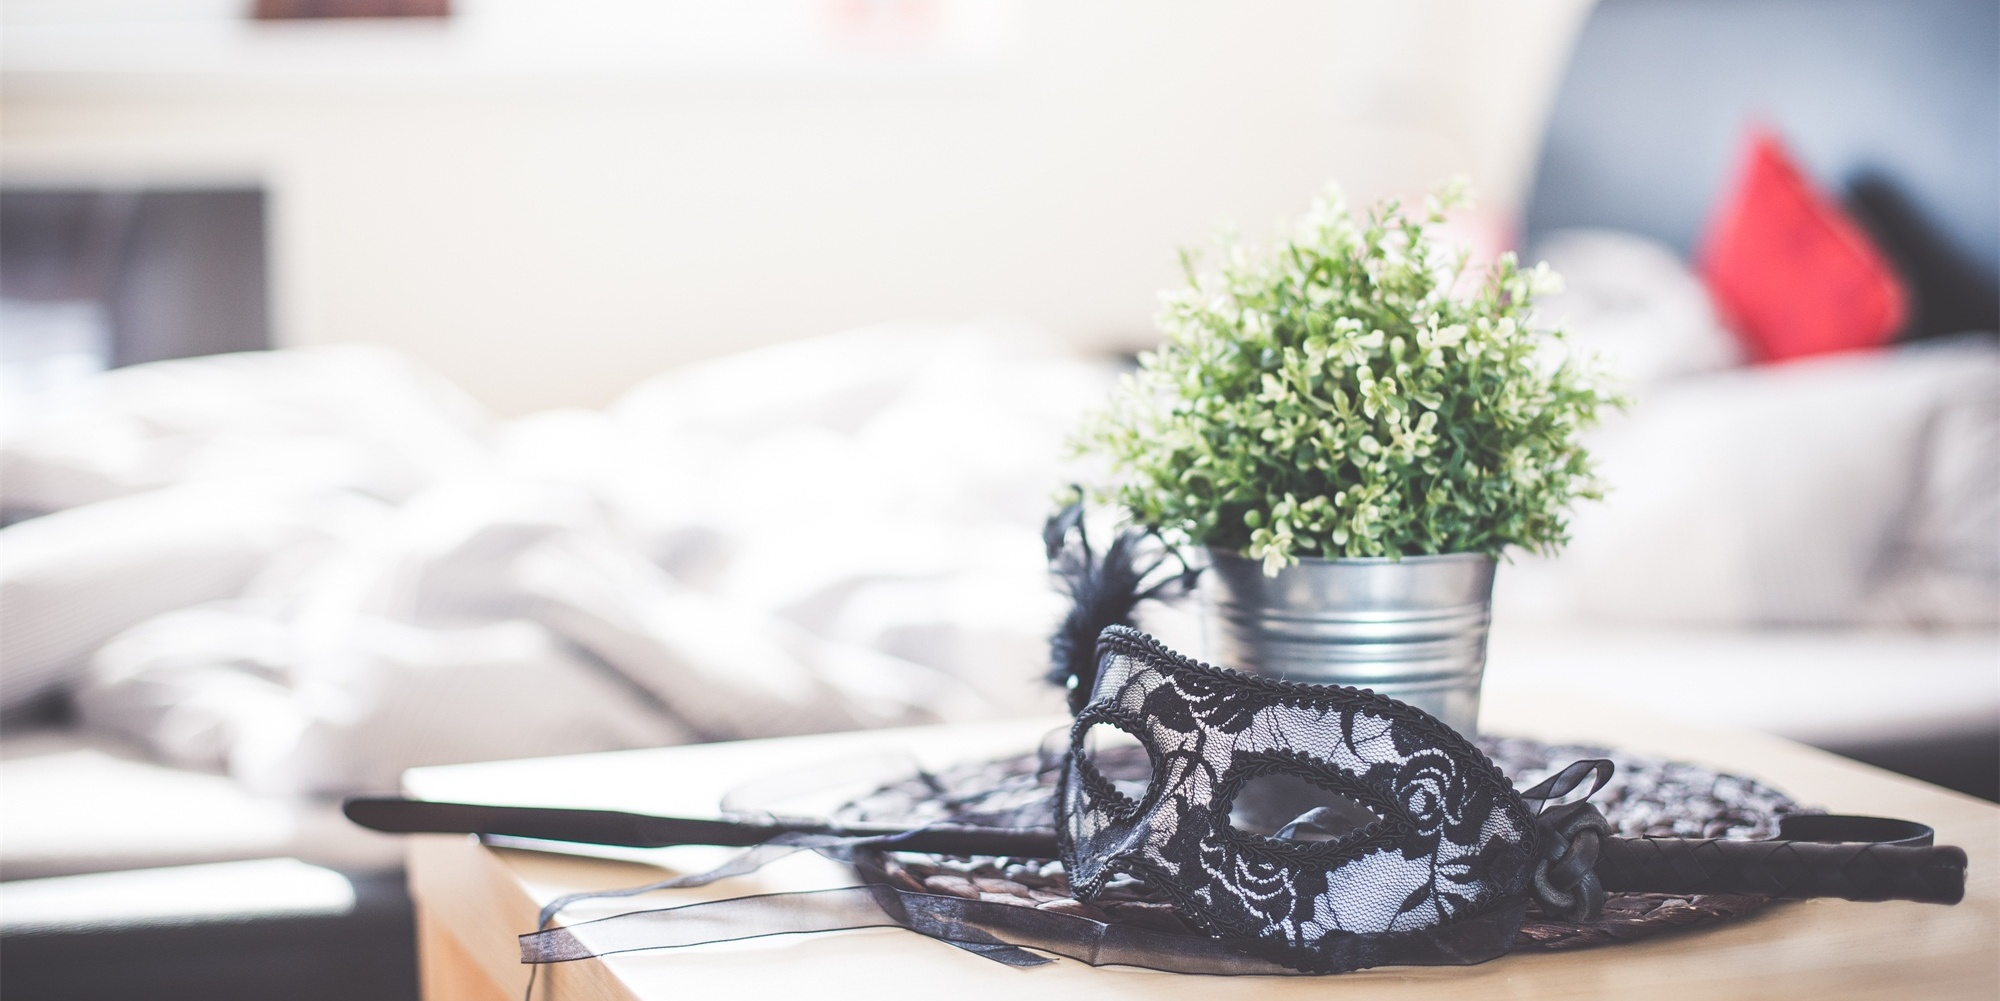
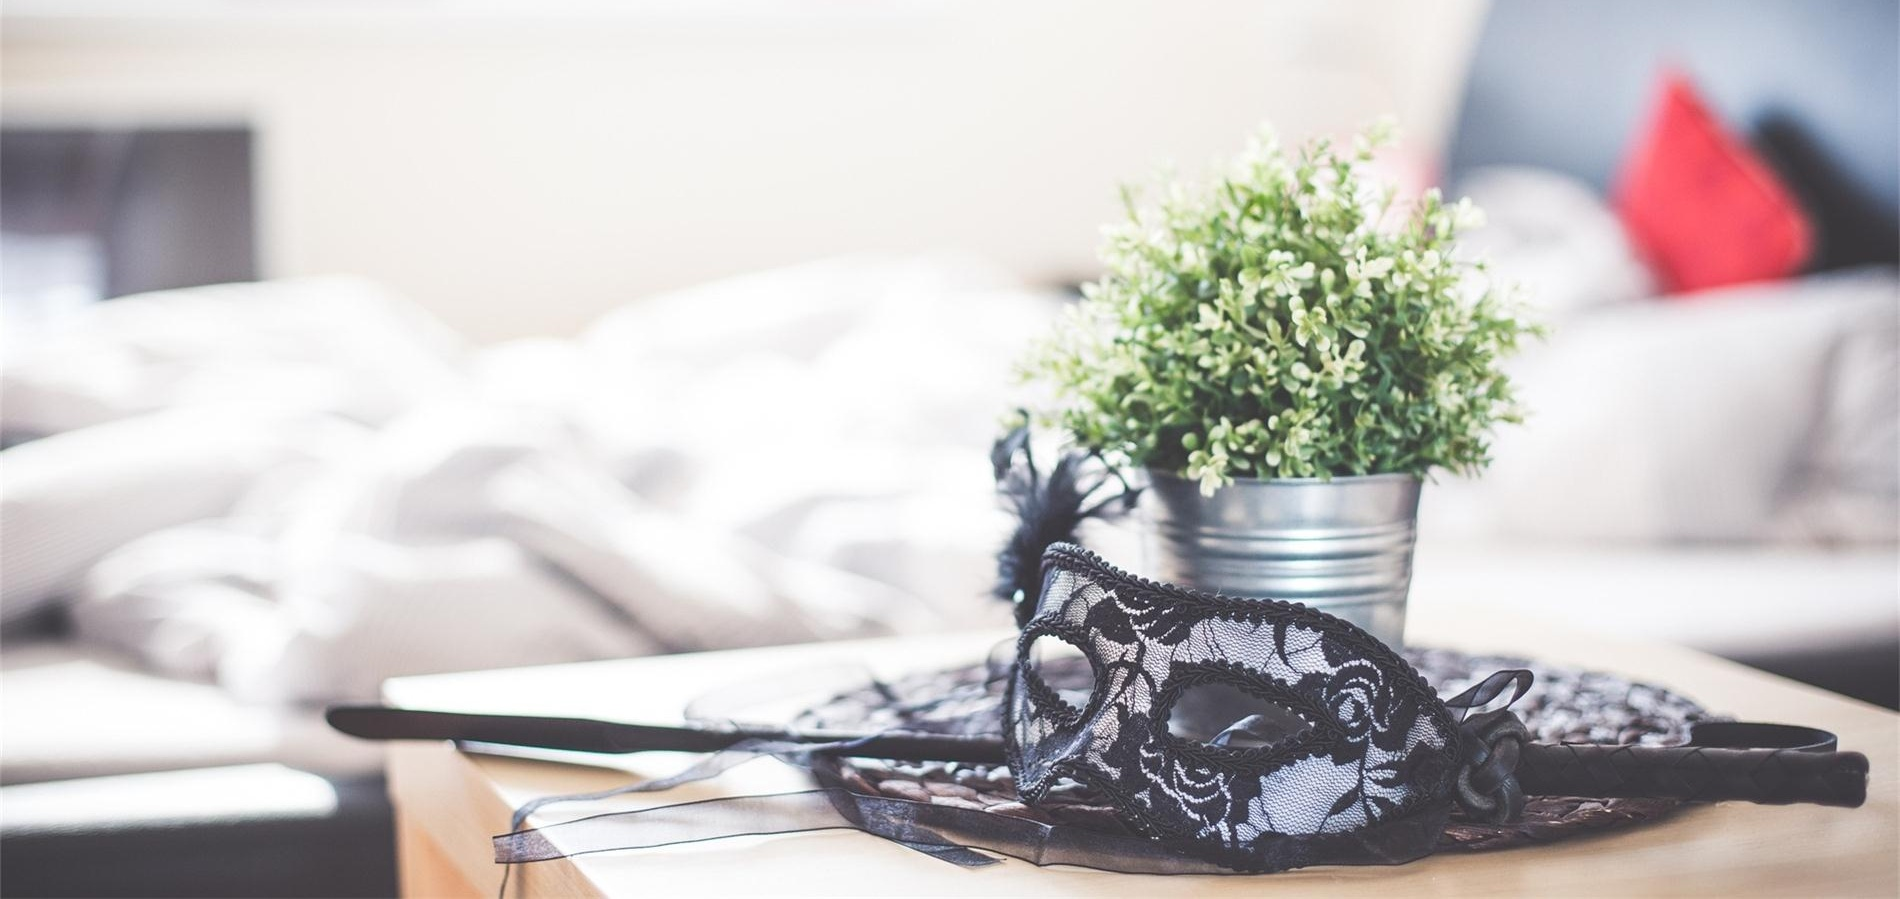
got ityy

diff --git a/css/hux-blog.min.css b/css/hux-blog.min.css
@@ -408,8 +408,6 @@ pre code {
 }
 
 .intro-header {
-    width: 1900px;
-    height: 600px;
     background: no-repeat center center;
     background-color: gray;
     background-attachment: scroll;
